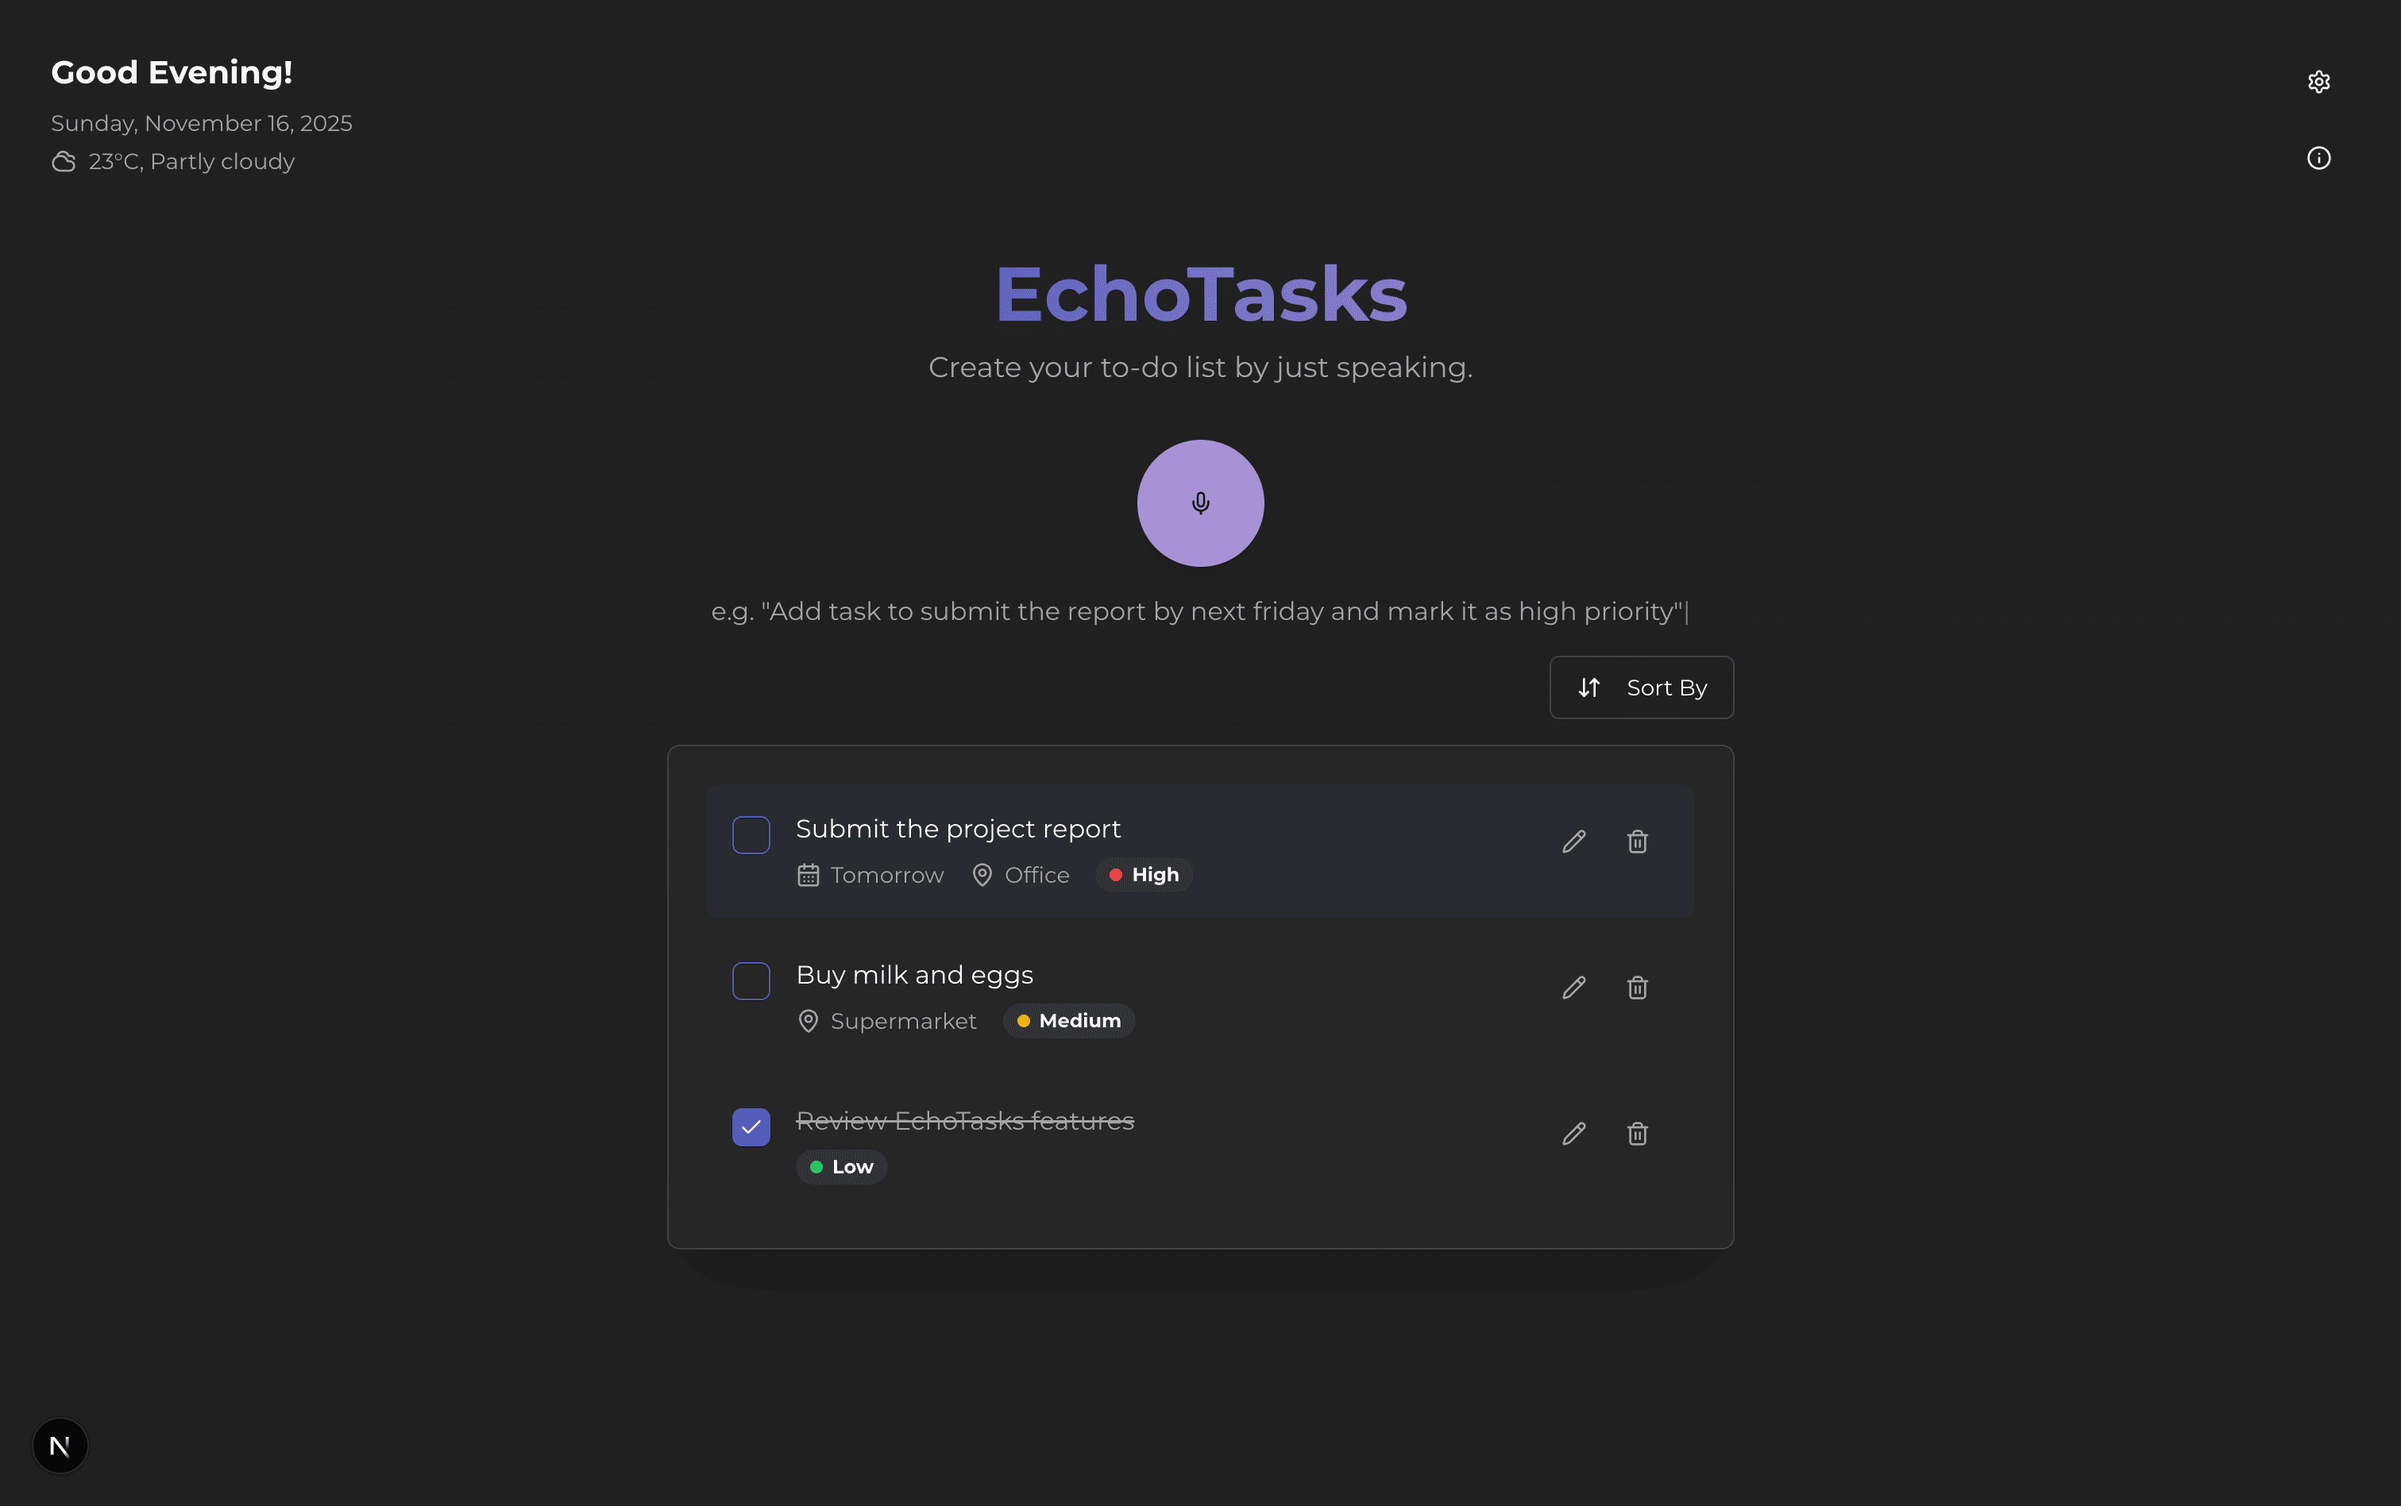
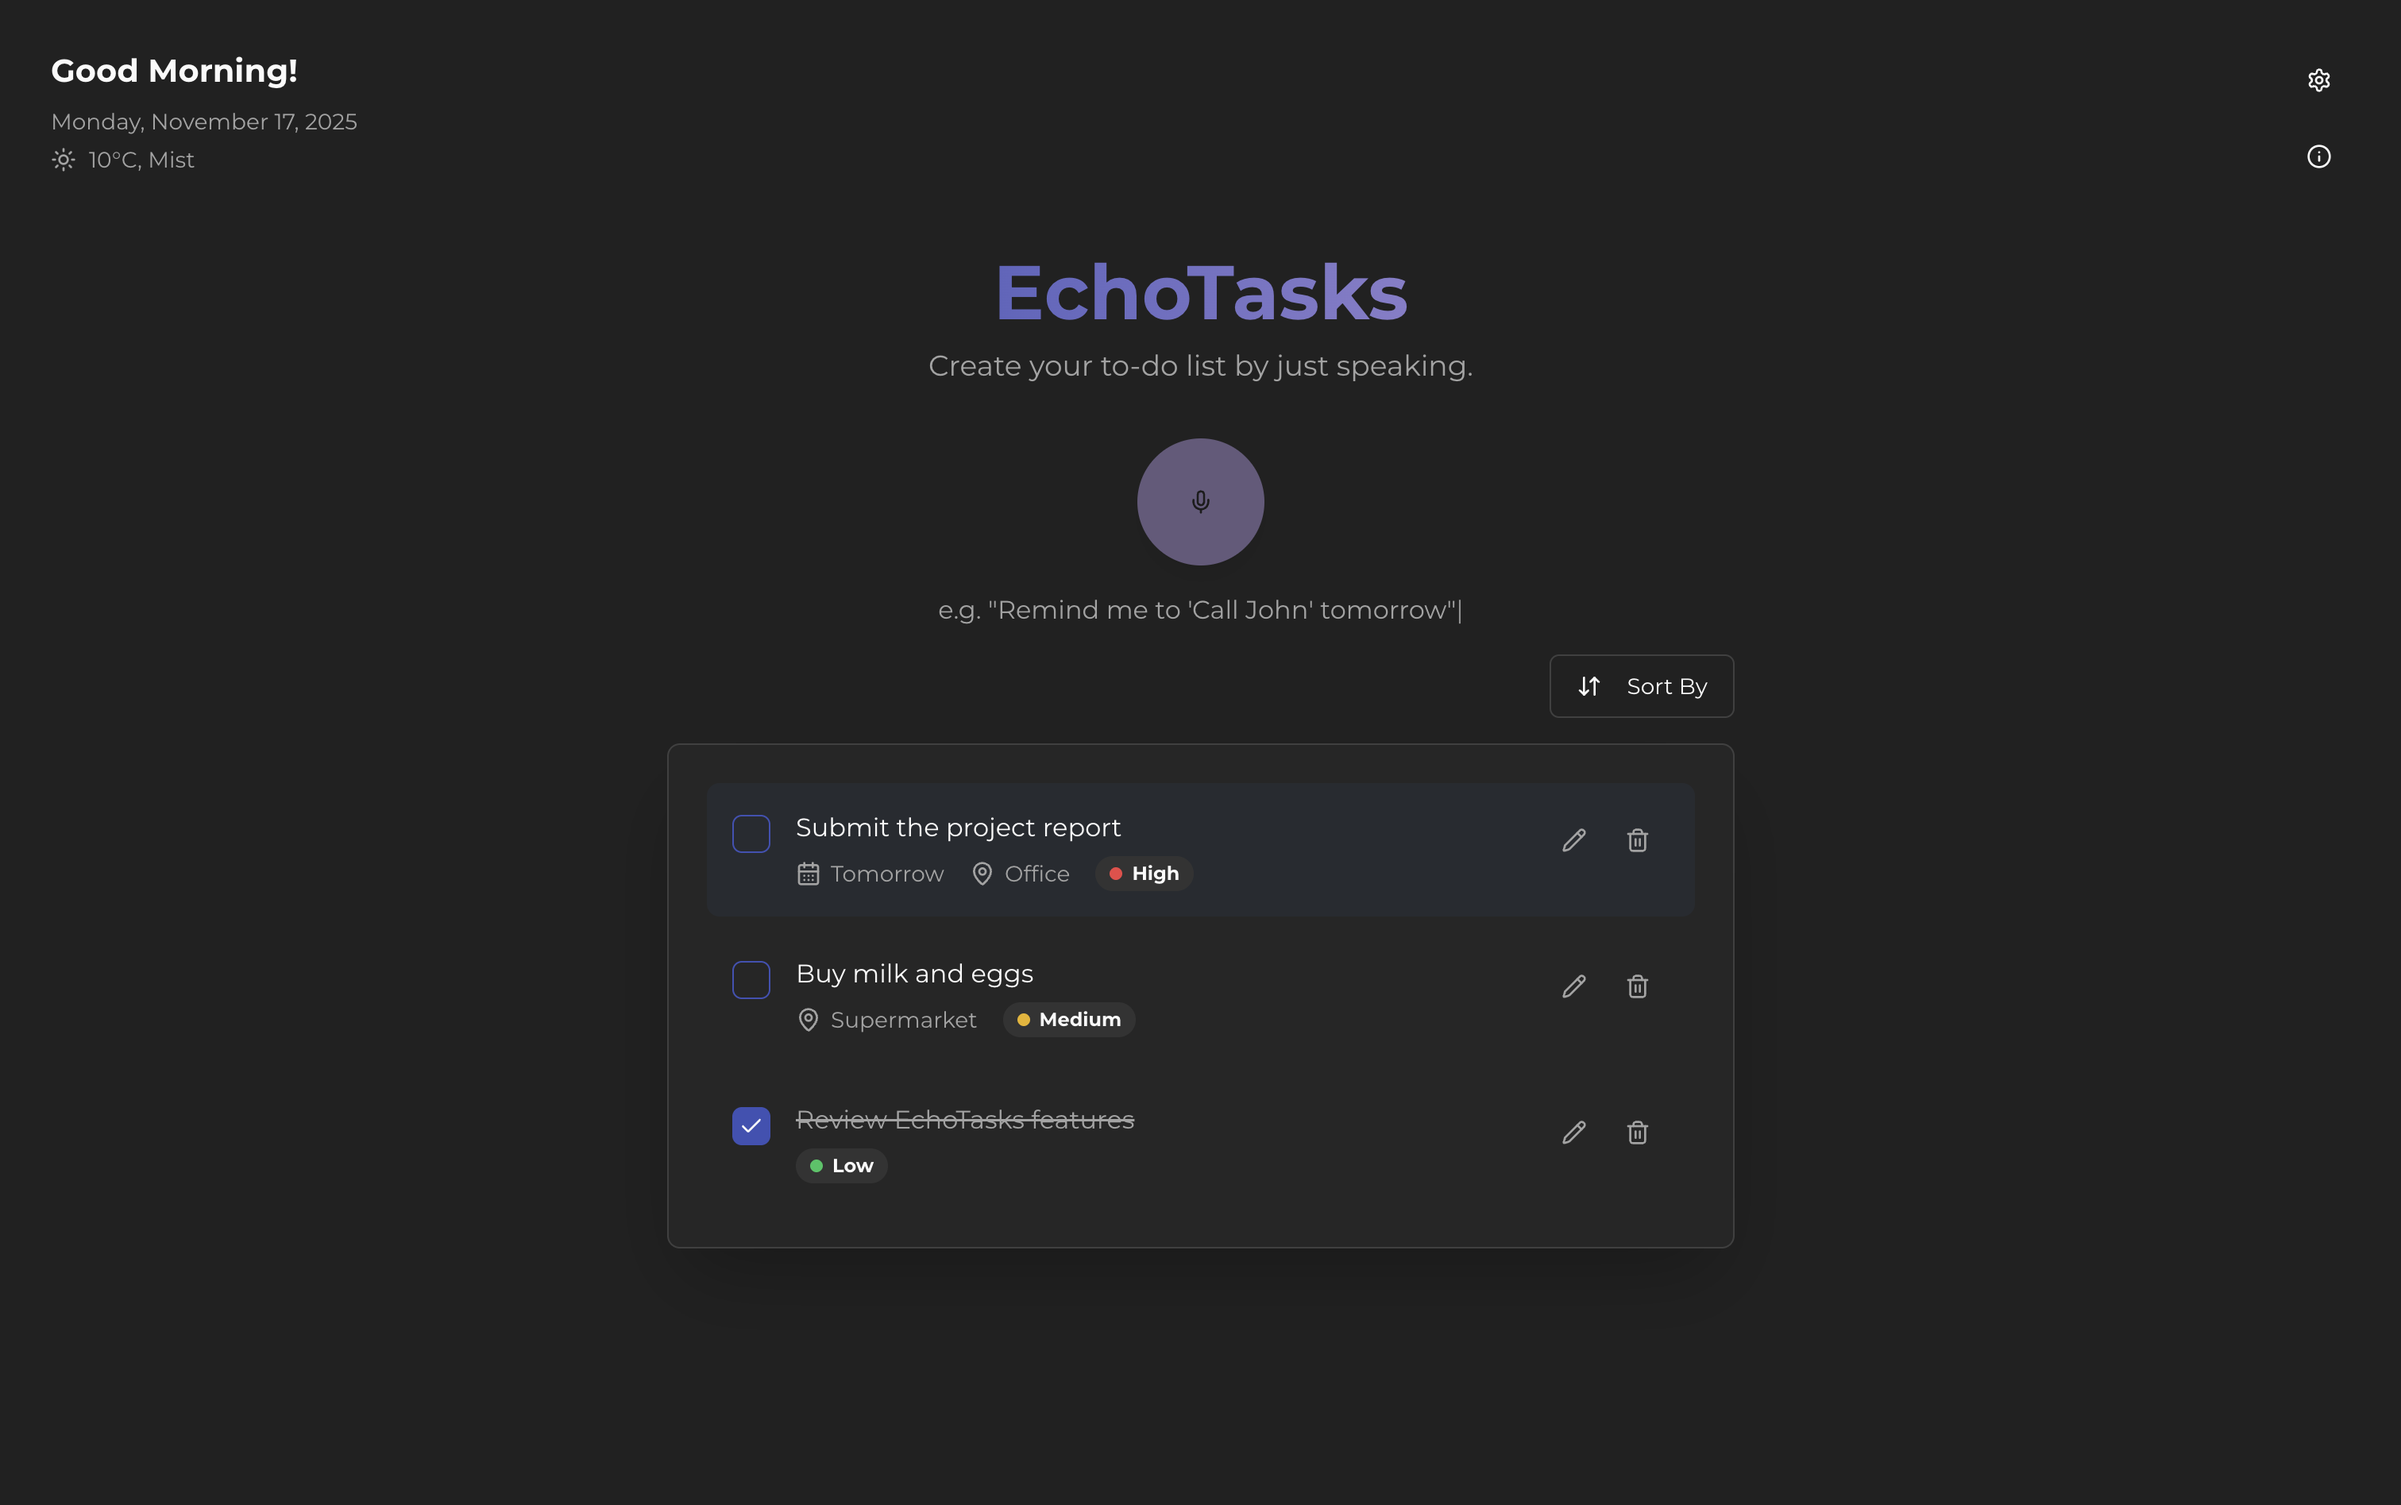
fixed mic permission error

diff --git a/src/components/voice-recorder.tsx b/src/components/voice-recorder.tsx
@@ -15,7 +15,7 @@ type VoiceRecorderProps = {
 export function VoiceRecorder({ onRecordingComplete, isProcessing }: VoiceRecorderProps) {
   const { settings } = useSettings();
   const [isRecording, setIsRecording] = useState(false);
-  const [hasPermission, setHasPermission] = useState<boolean | null>(null);
+  const [hasPermission, setHasPermission] = useState(true); // Assume true, will be updated on error
   const mediaRecorderRef = useRef<MediaRecorder | null>(null);
   const audioChunksRef = useRef<Blob[]>([]);
   const silenceTimerRef = useRef<NodeJS.Timeout | null>(null);
@@ -23,30 +23,6 @@ export function VoiceRecorder({ onRecordingComplete, isProcessing }: VoiceRecord
   const analyserRef = useRef<AnalyserNode | null>(null);
   const streamRef = useRef<MediaStream | null>(null);
   const spacebarHeldRef = useRef(false);
-
-  const checkMicPermission = useCallback(async () => {
-    try {
-      // Check permission status without prompting
-      const permissionStatus = await navigator.permissions.query({ name: 'microphone' as PermissionName });
-      if (permissionStatus.state === 'granted') {
-        setHasPermission(true);
-      } else if (permissionStatus.state === 'denied') {
-        setHasPermission(false);
-      } else {
-        setHasPermission(null); // Prompt needed
-      }
-      permissionStatus.onchange = () => {
-        setHasPermission(permissionStatus.state === 'granted');
-      };
-    } catch (error) {
-      console.error("Permissions API not supported, falling back to getUserMedia check", error);
-      setHasPermission(null); // Fallback to prompt on action
-    }
-  }, []);
-
-  useEffect(() => {
-    checkMicPermission();
-  }, [checkMicPermission]);
 
   const stopSilenceTimer = () => {
     if (silenceTimerRef.current) {
@@ -67,21 +43,17 @@ export function VoiceRecorder({ onRecordingComplete, isProcessing }: VoiceRecord
   }, []);
 
   const stopRecording = useCallback(() => {
-    if (mediaRecorderRef.current && isRecording) {
+    if (mediaRecorderRef.current && mediaRecorderRef.current.state === "recording") {
       mediaRecorderRef.current.stop();
-      setIsRecording(false);
     }
-  }, [isRecording]);
+    // We set isRecording to false in the onstop handler
+  }, []);
 
   const startRecording = useCallback(async () => {
     if (isRecording || isProcessing) return;
-    
-    if (hasPermission === false) {
-      alert('Microphone access is denied. Please enable it in your browser settings.');
-      return;
-    }
 
     try {
+      // Directly request microphone access. This is the key change to trigger the prompt.
       const stream = await navigator.mediaDevices.getUserMedia({ audio: true });
       streamRef.current = stream;
       setHasPermission(true);
@@ -96,6 +68,7 @@ export function VoiceRecorder({ onRecordingComplete, isProcessing }: VoiceRecord
       };
 
       mediaRecorderRef.current.onstop = () => {
+        setIsRecording(false);
         stopSilenceTimer();
         if (audioChunksRef.current.length > 0) {
             const audioBlob = new Blob(audioChunksRef.current, { type: 'audio/webm' });
@@ -103,6 +76,12 @@ export function VoiceRecorder({ onRecordingComplete, isProcessing }: VoiceRecord
         }
         stopMediaStream();
       };
+      
+      mediaRecorderRef.current.onerror = (event) => {
+        console.error('MediaRecorder error:', event);
+        setIsRecording(false);
+        stopMediaStream();
+      }
 
       mediaRecorderRef.current.start();
       setIsRecording(true);
@@ -142,9 +121,9 @@ export function VoiceRecorder({ onRecordingComplete, isProcessing }: VoiceRecord
     } catch (error) {
       console.error('Error accessing microphone:', error);
       setHasPermission(false);
-      alert('Could not access microphone. Please check permissions and try again.');
+      alert('Could not access microphone. Please enable it in your browser settings and refresh the page.');
     }
-  }, [isRecording, isProcessing, hasPermission, settings.micMode, settings.intelligentStopDuration, onRecordingComplete, stopMediaStream, stopRecording]);
+  }, [isRecording, isProcessing, settings.micMode, settings.intelligentStopDuration, onRecordingComplete, stopMediaStream, stopRecording]);
 
 
   useEffect(() => {
@@ -209,7 +188,7 @@ export function VoiceRecorder({ onRecordingComplete, isProcessing }: VoiceRecord
       onPointerDown={handlePointerDown}
       onPointerUp={handlePointerUp}
       onPointerLeave={handlePointerUp} // Stop if user's finger leaves the button
-      disabled={isProcessing || (hasPermission === null && settings.micMode === 'tap')}
+      disabled={isProcessing || !hasPermission}
       size="lg"
       className={cn(
         'w-20 h-20 rounded-full transition-all duration-300 ease-in-out touch-none',
